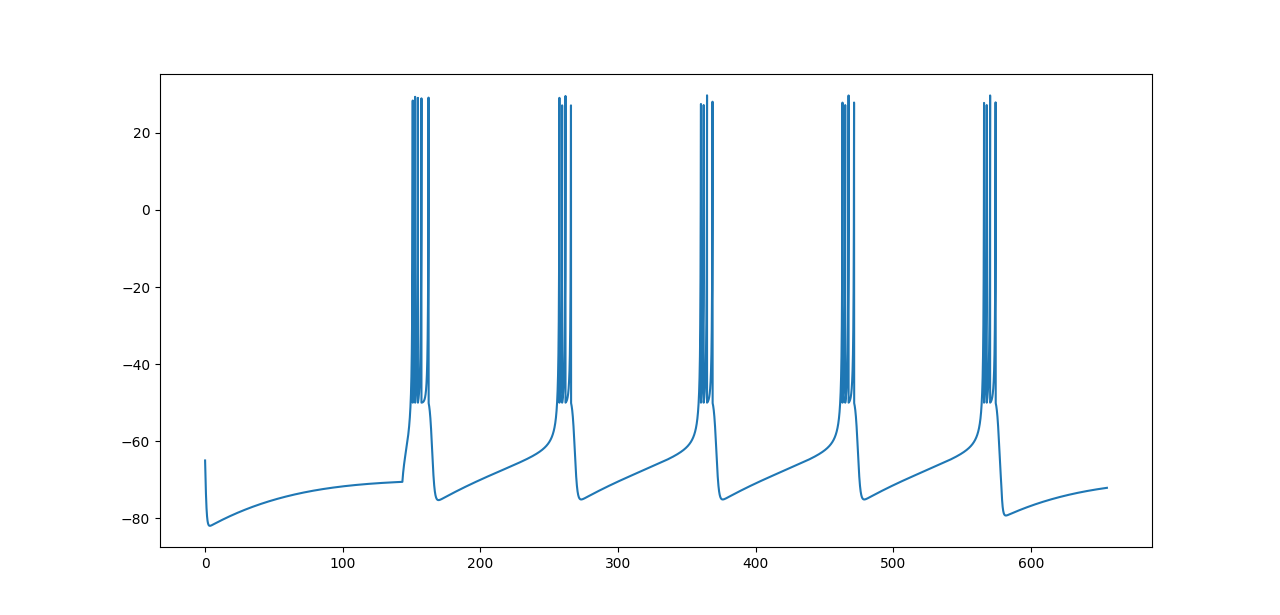
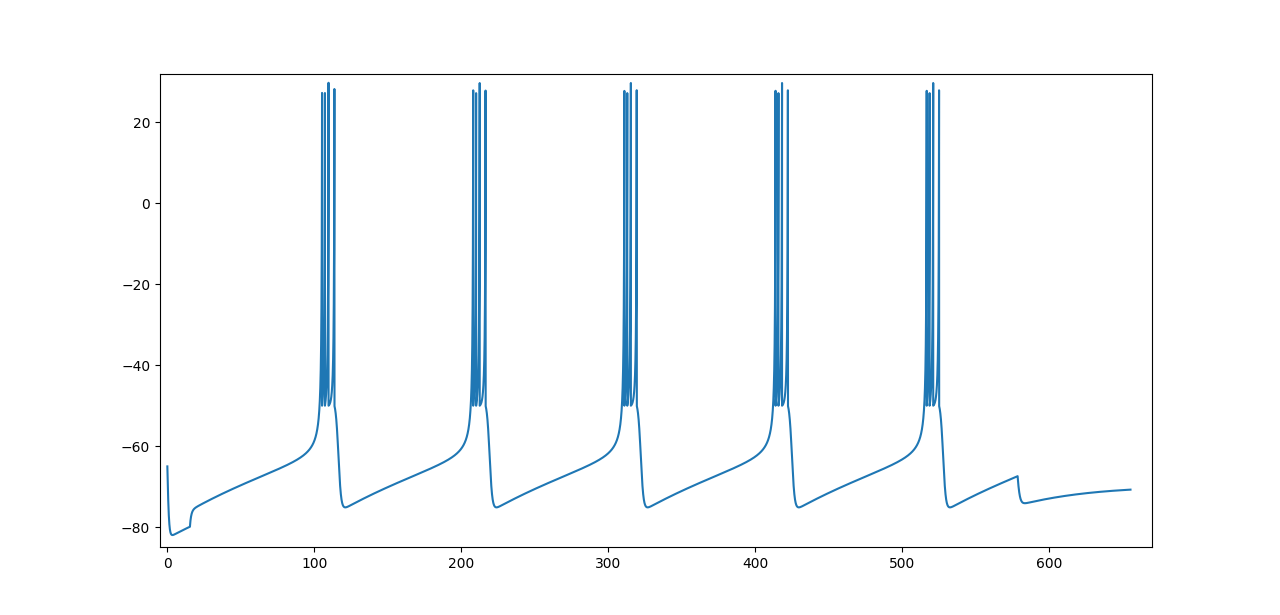
📝 docs: 更新了示例

diff --git a/example/neuron_runner/README.md b/example/neuron_runner/README.md
@@ -2,8 +2,33 @@
 
 ## Izhikevich model
 
-```sh
-mix example/neuron_runner/demo.exs
+```
+~playground/glowworm> mix example/neuron_runner/demo.exs
+Start inject current at 15.36ms.
+Pulse at 105.26ms.
+Pulse at 107.23ms.
+Pulse at 109.68ms.
+Pulse at 113.66ms.
+Pulse at 208.12ms.
+Pulse at 210.09ms.
+Pulse at 212.54ms.
+Pulse at 216.52ms.
+Pulse at 310.98ms.
+Pulse at 312.95ms.
+Pulse at 315.40000000000003ms.
+Pulse at 319.38ms.
+Pulse at 413.84000000000003ms.
+Pulse at 415.81ms.
+Pulse at 418.26ms.
+Pulse at 422.24ms.
+Pulse at 516.7ms.
+Pulse at 518.67ms.
+Pulse at 521.12ms.
+Pulse at 525.1ms.
+End inject current at 578.5600000000001ms.
+====
+Used 147660ms for 655.36ms.
+Ratio: 225.311279296875.
 ```
 
 ![pic](/example/neuron_runner/Izhikevich_chattering.png)
